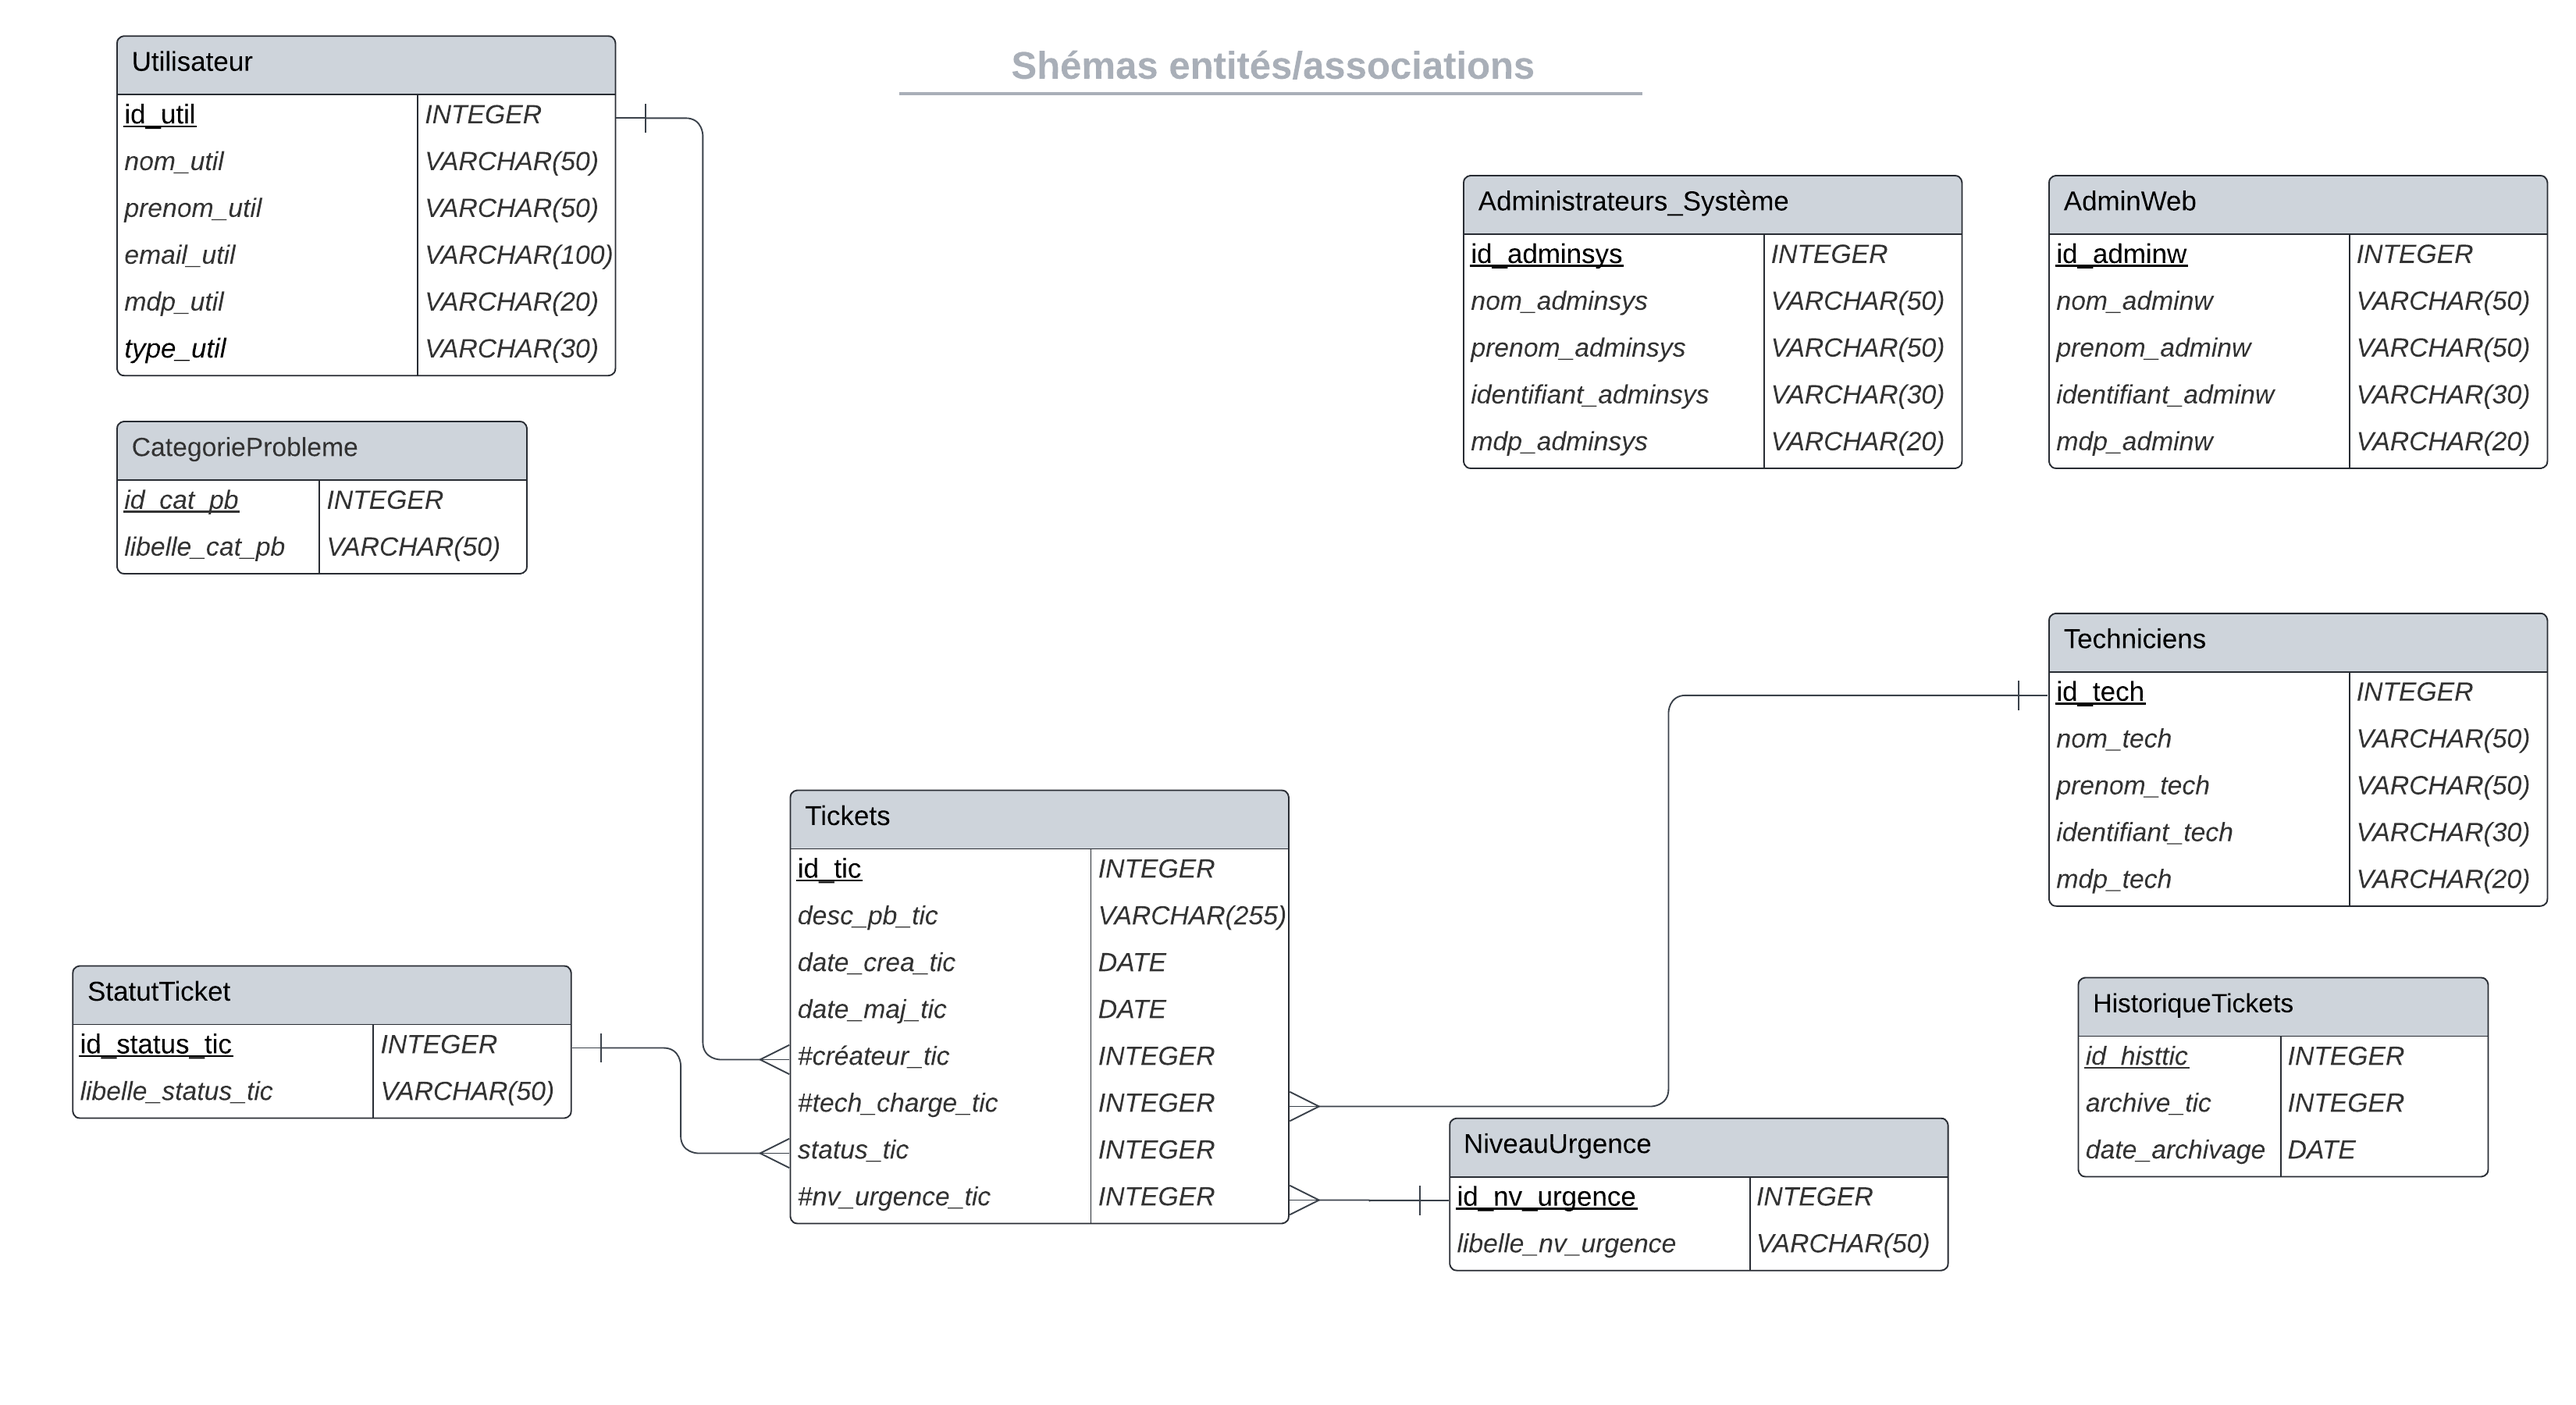
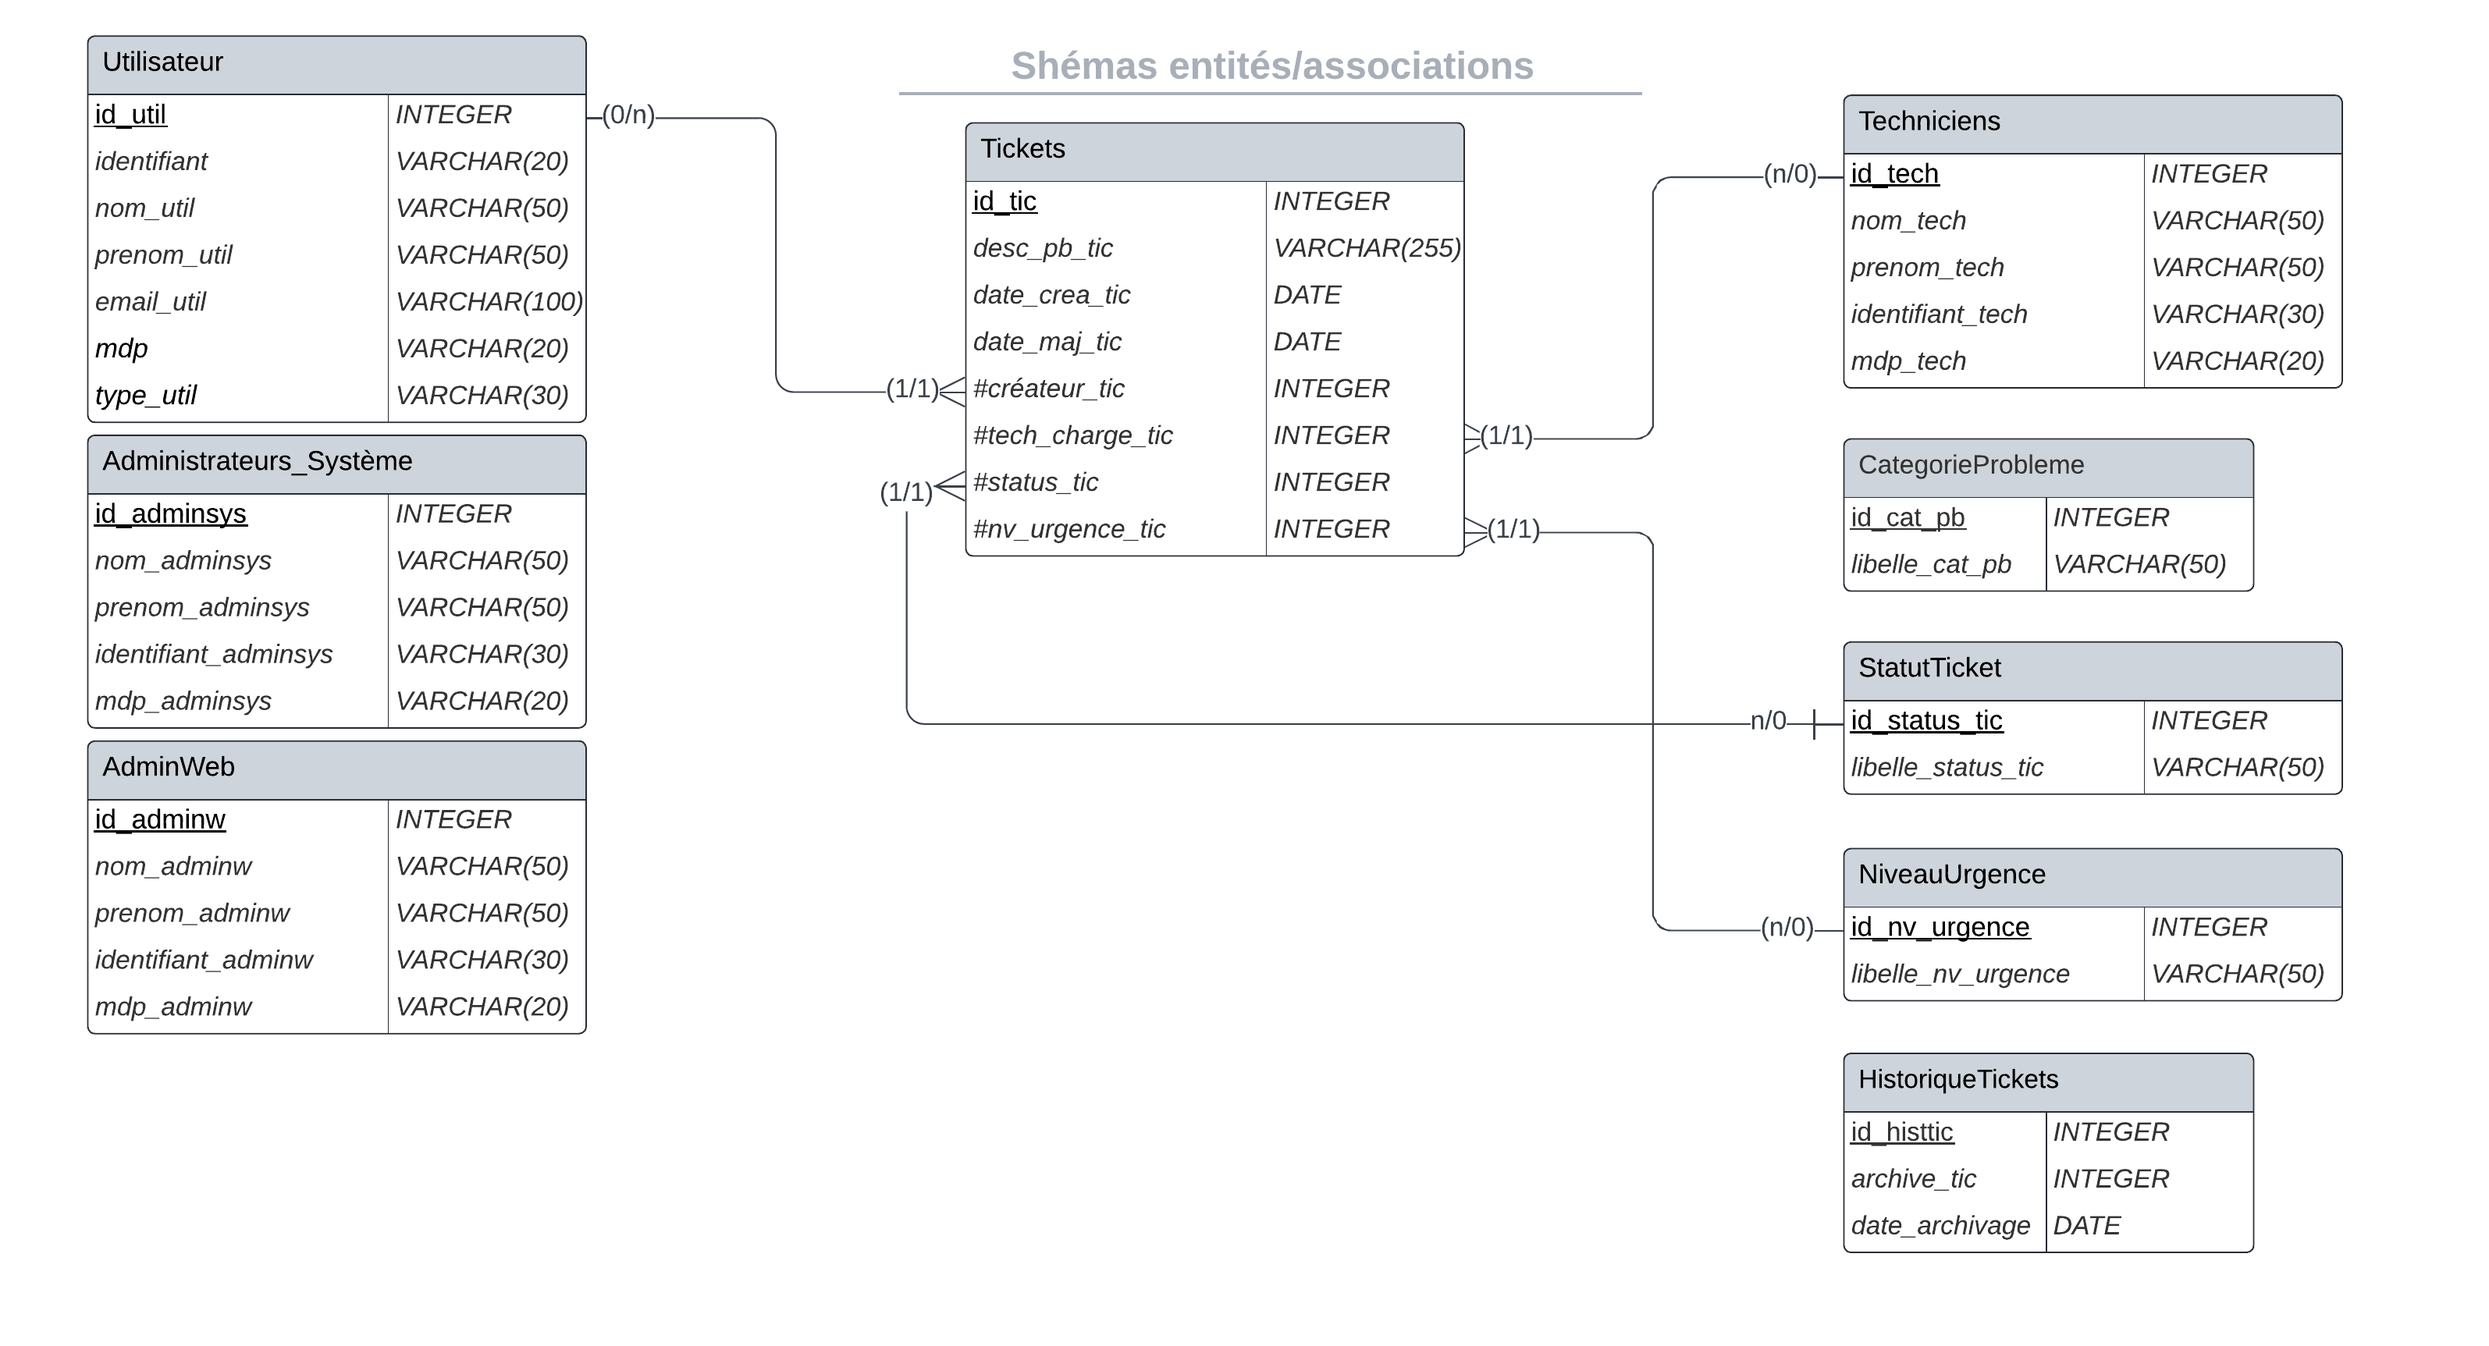
fonctions.php (ajout de la dynamiqation du profil (fonction tableau_profil))
ajout des cardinalités dans le schémas de la base de données

diff --git a/src/PHP/Autres/fonctions.php b/src/PHP/Autres/fonctions.php
@@ -37,7 +37,8 @@ function tableau_profil($username, $table_user){
             
           </style>";
 
-    echo "<table>
+    if ($table_user == 'Utilisateur') {
+        echo "<table>
             <thead>
                 <tr>
                     <th>Identifiant</th>
@@ -49,6 +50,20 @@ function tableau_profil($username, $table_user){
                 </tr>
             </thead>
             <tbody>";
+    } else {
+        echo "<table>
+            <thead>
+                <tr>
+                    <th>Nom</th>
+                    <th>Prénom</th>
+                    <th>Identifiant</th>
+                    <th>Mot de passe</th>
+                </tr>
+            </thead>
+            <tbody>";
+    }
+
+
 
     // Informations de connexion à la base de données
     $serveur = "localhost";
